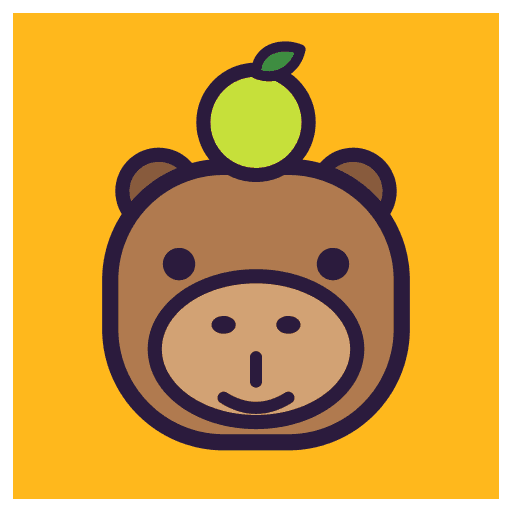
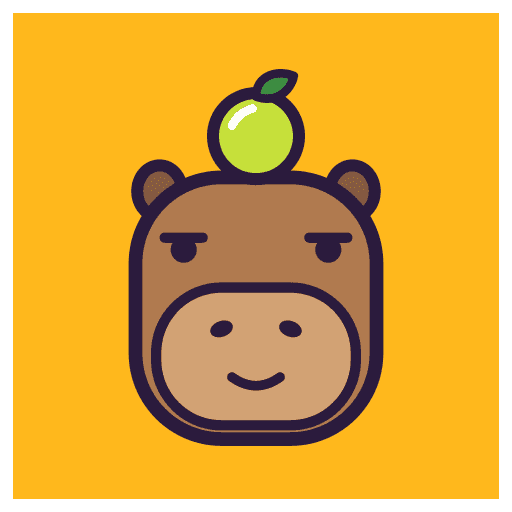
Pulido: Capi definitivo, guía de instalación y borrado de reseñas
Mascota con ánimos en estados vacíos y de error, tarjeta para instalar
la PWA (Android e iPhone), contadores en el perfil y página de error.

Changed region(s): [[0.1875, 0.0625, 0.8125, 0.9062]]

diff --git a/app/pages/lugar/[id].vue b/app/pages/lugar/[id].vue
@@ -67,6 +67,27 @@ function fecha(dia: string) {
 }
 const nombrePlan = (id: string | null) => PLANES.find(p => p.id === id)?.nombre
 
+// --- Borrar mi reseña ---
+const porBorrar = ref<string | null>(null)
+const borrando = ref(false)
+
+async function borrarResena(r: Resena) {
+  if (borrando.value) return
+  borrando.value = true
+  aviso.value = ''
+  // Primero los archivos: al borrar la reseña se pierden las rutas.
+  const rutas = r.fotos.map(f => f.path)
+  if (rutas.length) await supabase.storage.from('fotos').remove(rutas)
+  const { error } = await supabase.from('resenas').delete().eq('id', r.id)
+  borrando.value = false
+  porBorrar.value = null
+  if (error) {
+    aviso.value = 'No se pudo borrar la reseña.'
+    return
+  }
+  await cargar()
+}
+
 // --- Quiero ir ---
 const nombreDe = (id: string | null) => mancha.value.find(x => x.id === id)?.nombre
 const miPendiente = computed(() => pendientes.value.find(x => x.usuario_id === perfil.value?.id))
@@ -118,16 +139,21 @@ async function recomendar(amigoId: string) {
   <main class="mx-auto min-h-full max-w-md px-5 pt-6 pb-28">
     <NuxtLink to="/" class="text-sm font-bold">← Volver al mapa</NuxtLink>
 
-    <p v-if="estado === 'cargando'" class="mt-10 text-center font-display text-xl font-bold">Cargando…</p>
+    <div v-if="estado === 'cargando'" class="mt-10 text-center">
+      <Capi :size="96" animo="dormido" class="mx-auto animate-pulse" />
+      <p class="mt-2 font-display text-xl font-bold">Cargando…</p>
+    </div>
 
     <div v-else-if="estado === 'error'" class="mt-10 text-center">
-      <p class="font-display text-xl font-bold">No se pudo cargar el lugar</p>
+      <Capi :size="96" animo="triste" class="mx-auto" />
+      <p class="mt-2 font-display text-xl font-bold">No se pudo cargar el lugar</p>
       <button class="btn mt-4 bg-limon" @click="cargar">Reintentar</button>
     </div>
 
-    <p v-else-if="estado === 'no-existe'" class="mt-10 text-center font-display text-xl font-bold">
-      Este lugar no existe o no es de tu grupo
-    </p>
+    <div v-else-if="estado === 'no-existe'" class="mt-10 text-center">
+      <Capi :size="96" animo="triste" class="mx-auto" />
+      <p class="mt-2 font-display text-xl font-bold">Este lugar no existe o no es de tu grupo</p>
+    </div>
 
     <template v-else-if="lugar">
       <p v-if="route.query.fotosFallidas" class="sticker mt-4 bg-white px-3 py-2 text-sm font-semibold" role="alert">
@@ -195,7 +221,10 @@ async function recomendar(amigoId: string) {
         <p v-if="aviso" class="mt-2 text-sm font-semibold" role="status">{{ aviso }}</p>
       </section>
 
-      <p v-if="!resenas.length" class="mt-8 text-center">Aún no hay reseñas de este lugar.</p>
+      <div v-if="!resenas.length" class="mt-8 text-center">
+        <Capi :size="80" class="mx-auto" />
+        <p class="mt-2 font-semibold">Nadie lo ha reseñado todavía. Estrénalo.</p>
+      </div>
 
       <article v-for="r in resenas" :key="r.id" class="sticker mt-4 p-4">
         <div class="flex items-center gap-2">
@@ -206,6 +235,15 @@ async function recomendar(amigoId: string) {
             <p class="font-bold">{{ r.autor?.nombre }}</p>
             <p class="text-xs">{{ fecha(r.visitado_en) }}<template v-if="r.plan"> · {{ nombrePlan(r.plan) }}</template></p>
           </div>
+          <template v-if="r.autor_id === perfil?.id">
+            <span v-if="porBorrar === r.id" class="flex items-center gap-2 text-xs font-bold">
+              <button class="underline" @click="porBorrar = null">Cancelar</button>
+              <button class="rounded-full border-2 border-tinta bg-rocoto px-2 py-0.5 text-white" :disabled="borrando" @click="borrarResena(r)">
+                {{ borrando ? 'Borrando…' : 'Sí, borrar' }}
+              </button>
+            </span>
+            <button v-else class="text-xs font-bold underline" @click="porBorrar = r.id">Borrar</button>
+          </template>
         </div>
 
         <div class="mt-3 flex items-center gap-2">

diff --git a/app/pages/perfil.vue b/app/pages/perfil.vue
@@ -3,12 +3,32 @@ import type { Perfil } from '~/utils/tipos'
 
 const supabase = useSupabaseClient()
 const { perfil, salir } = usePerfil()
-const mancha = ref<Pick<Perfil, 'id' | 'nombre' | 'avatar_url'>[]>([])
+
+const mancha = ref<(Pick<Perfil, 'id' | 'nombre' | 'avatar_url'> & { resenas: number })[]>([])
+const pendientes = ref(0)
+const error = ref(false)
 
 onMounted(async () => {
-  const { data } = await supabase.from('perfiles').select('id, nombre, avatar_url').order('nombre')
-  mancha.value = data ?? []
+  const [p, r, q] = await Promise.all([
+    supabase.from('perfiles').select('id, nombre, avatar_url').order('nombre'),
+    supabase.from('resenas').select('autor_id'),
+    supabase.from('pendientes').select('lugar_id', { count: 'exact', head: true }).eq('usuario_id', perfil.value?.id ?? ''),
+  ])
+  if (p.error || r.error || q.error) {
+    error.value = true
+    return
+  }
+  mancha.value = p.data.map(x => ({ ...x, resenas: r.data.filter(y => y.autor_id === x.id).length }))
+  pendientes.value = q.count ?? 0
 })
+
+const misResenas = computed(() => mancha.value.find(x => x.id === perfil.value?.id)?.resenas ?? 0)
+const { filtros } = useFiltros()
+
+function verPendientes() {
+  filtros.value.soloPendientes = true
+  navigateTo('/')
+}
 </script>
 
 <template>
@@ -16,15 +36,29 @@ onMounted(async () => {
     <NuxtLink to="/" class="text-sm font-bold">← Volver al mapa</NuxtLink>
 
     <header class="mt-5 flex items-center gap-3">
-      <Capi :size="56" />
+      <Capi :size="64" animo="feliz" />
       <div>
         <p class="text-sm font-semibold">Hola,</p>
         <h1 class="font-display text-3xl leading-none font-extrabold">{{ perfil?.nombre }}</h1>
       </div>
     </header>
 
-    <section class="sticker mt-8 p-4">
+    <div class="mt-6 grid grid-cols-2 gap-3">
+      <div class="sticker bg-limon p-3">
+        <p class="font-display text-3xl leading-none font-extrabold">{{ misResenas }}</p>
+        <p class="mt-1 text-sm font-semibold">{{ misResenas === 1 ? 'reseña tuya' : 'reseñas tuyas' }}</p>
+      </div>
+      <button class="sticker bg-aji p-3 text-left disabled:opacity-100" :disabled="!pendientes" @click="verPendientes">
+        <p class="font-display text-3xl leading-none font-extrabold">{{ pendientes }}</p>
+        <p class="mt-1 text-sm font-semibold">🔖 en "Quiero ir"<template v-if="pendientes"> · Ver</template></p>
+      </button>
+    </div>
+
+    <InstalarApp class="mt-5" />
+
+    <section class="sticker mt-5 p-4">
       <h2 class="font-display text-lg font-bold">La mancha</h2>
+      <p v-if="error" class="mt-2 text-sm font-semibold" role="alert">No se pudo cargar la lista.</p>
       <ul class="mt-3 space-y-3">
         <li v-for="p in mancha" :key="p.id" class="flex items-center gap-3">
           <img
@@ -37,8 +71,8 @@ onMounted(async () => {
           <span v-else class="grid size-9 place-items-center rounded-full border-2 border-tinta bg-aji font-bold">
             {{ p.nombre.charAt(0).toUpperCase() }}
           </span>
-          <span class="font-semibold">{{ p.nombre }}</span>
-          <span v-if="p.id === perfil?.id" class="text-sm">(tú)</span>
+          <span class="font-semibold">{{ p.nombre }}<template v-if="p.id === perfil?.id"> (tú)</template></span>
+          <span class="ml-auto text-sm">{{ p.resenas }} {{ p.resenas === 1 ? 'reseña' : 'reseñas' }}</span>
         </li>
       </ul>
     </section>

diff --git a/app/components/Capi.vue b/app/components/Capi.vue
@@ -1,24 +1,45 @@
 <script setup lang="ts">
-// Mascota provisional: capibara con un limón en la cabeza.
-withDefaults(defineProps<{ size?: number }>(), { size: 120 })
+// Capi: capibara con un limón en la cabeza. El ánimo cambia ojos y boca.
+withDefaults(defineProps<{
+  size?: number
+  animo?: 'normal' | 'feliz' | 'dormido' | 'triste'
+}>(), { size: 120, animo: 'normal' })
 </script>
 
 <template>
   <svg :width="size" :height="size" viewBox="0 0 120 120" role="img" aria-label="Capi, la mascota de Caleta">
     <g stroke="#2B1B3D" stroke-linejoin="round" stroke-linecap="round">
-      <circle cx="36" cy="44" r="9" fill="#8A5A3C" stroke-width="3.5" />
-      <circle cx="84" cy="44" r="9" fill="#8A5A3C" stroke-width="3.5" />
-      <rect x="24" y="38" width="72" height="68" rx="28" fill="#B07A4F" stroke-width="4" />
-      <ellipse cx="60" cy="83" rx="25" ry="18" fill="#D2A274" stroke-width="3.5" />
-      <path d="M60 85v6M52 95q8 5 16 0" fill="none" stroke-width="3" />
-      <circle cx="60" cy="27" r="13" fill="#C6E03A" stroke-width="3.5" />
-      <path d="M60 15c0-6 6-8 11-6-1 5-6 8-11 6Z" fill="#3E8E41" stroke-width="2.5" />
+      <!-- orejas -->
+      <ellipse cx="32" cy="40" rx="6.5" ry="7.5" fill="#8A5A3C" stroke-width="3.5" />
+      <ellipse cx="88" cy="40" rx="6.5" ry="7.5" fill="#8A5A3C" stroke-width="3.5" />
+      <!-- cabeza cuadrada y hocico ancho, como buen capibara -->
+      <rect x="25" y="36" width="70" height="76" rx="25" fill="#B07A4F" stroke-width="4" />
+      <rect x="31" y="68" width="58" height="40" rx="19" fill="#D2A274" stroke-width="3" />
+      <ellipse cx="50" cy="80" rx="3.4" ry="2.3" fill="#2B1B3D" stroke="none" transform="rotate(-20 50 80)" />
+      <ellipse cx="70" cy="80" rx="3.4" ry="2.3" fill="#2B1B3D" stroke="none" transform="rotate(20 70 80)" />
+      <path :d="animo === 'triste' ? 'M53 97q7-5 14 0' : animo === 'feliz' ? 'M51 93q9 9 18 0' : 'M53 94q7 5 14 0'" fill="none" stroke-width="2.8" />
+      <!-- limón -->
+      <circle cx="60" cy="24" r="12.5" fill="#C6E03A" stroke-width="3.5" />
+      <path d="M60 12.5c0-6 6-8 11-6-1 5-6 8-11 6z" fill="#3E8E41" stroke-width="2.5" />
+      <path d="M53 21q2-4 6-5" fill="none" stroke="#fff" stroke-width="2.5" />
+
+      <!-- ojos: de párpado caído salvo cuando está feliz o dormido -->
+      <g v-if="animo === 'feliz'" fill="none" stroke-width="3.5">
+        <path d="M34 58q5-6 10 0M76 58q5-6 10 0" />
+      </g>
+      <g v-else-if="animo === 'dormido'" fill="none" stroke-width="3.5">
+        <path d="M34 56q5 4 10 0M76 56q5 4 10 0" />
+      </g>
+      <g v-else>
+        <circle cx="39" cy="57" r="3.8" fill="#2B1B3D" stroke="none" />
+        <circle cx="81" cy="57" r="3.8" fill="#2B1B3D" stroke="none" />
+        <path v-if="animo === 'triste'" d="M33 50l10 3M87 50l-10 3" fill="none" stroke-width="3" />
+        <path v-else d="M33.500 53.500h11M75.500 53.500h11" fill="none" stroke-width="3" />
+      </g>
     </g>
-    <g fill="#2B1B3D">
-      <ellipse cx="52" cy="77" rx="3" ry="2.2" />
-      <ellipse cx="68" cy="77" rx="3" ry="2.2" />
-      <circle cx="41" cy="62" r="4" />
-      <circle cx="79" cy="62" r="4" />
+    <g v-if="animo === 'feliz'" fill="#F0492E" opacity=".45">
+      <circle cx="31" cy="68" r="4.500" />
+      <circle cx="89" cy="68" r="4.500" />
     </g>
   </svg>
 </template>

diff --git a/app/components/InstalarApp.vue b/app/components/InstalarApp.vue
@@ -1,0 +1,79 @@
+<script setup lang="ts">
+// Invita a instalar la PWA. En Android/Chrome usa el aviso nativo;
+// en iPhone no existe, así que se explican los pasos de Safari.
+const CLAVE = 'caleta:instalar-oculto'
+
+const instalada = ref(true)
+const oculto = ref(false)
+const esIOS = ref(false)
+const enSafari = ref(true)
+const pasosAbiertos = ref(false)
+let aviso: any
+
+function alAviso(e: Event) {
+  e.preventDefault()
+  aviso = e
+  disponible.value = true
+}
+const disponible = ref(false)
+
+onMounted(() => {
+  const ua = navigator.userAgent
+  // iPadOS se presenta como Mac; se distingue por la pantalla táctil.
+  esIOS.value = /iPhone|iPad|iPod/.test(ua) || (ua.includes('Macintosh') && navigator.maxTouchPoints > 1)
+  enSafari.value = !/CriOS|FxiOS|EdgiOS/.test(ua)
+  instalada.value = window.matchMedia('(display-mode: standalone)').matches || (navigator as any).standalone === true
+  try {
+    oculto.value = localStorage.getItem(CLAVE) === '1'
+  }
+  catch {}
+  window.addEventListener('beforeinstallprompt', alAviso)
+  window.addEventListener('appinstalled', () => (instalada.value = true))
+})
+
+onBeforeUnmount(() => window.removeEventListener('beforeinstallprompt', alAviso))
+
+async function instalar() {
+  if (!aviso) return
+  aviso.prompt()
+  await aviso.userChoice
+  aviso = undefined
+  disponible.value = false
+}
+
+function ocultar() {
+  oculto.value = true
+  try {
+    localStorage.setItem(CLAVE, '1')
+  }
+  catch {}
+}
+
+const visible = computed(() => !instalada.value && !oculto.value && (esIOS.value || disponible.value))
+</script>
+
+<template>
+  <section v-if="visible" class="sticker bg-limon p-4">
+    <div class="flex items-start gap-3">
+      <Capi :size="48" animo="feliz" class="shrink-0" />
+      <div class="min-w-0 flex-1">
+        <h2 class="font-display text-lg leading-tight font-bold">Lleva Caleta en tu inicio</h2>
+        <p class="text-sm">Se abre como una app, a pantalla completa.</p>
+      </div>
+      <button class="text-sm font-bold underline" @click="ocultar">Ahora no</button>
+    </div>
+
+    <template v-if="esIOS">
+      <button class="btn mt-3 w-full bg-white py-2 text-sm" :aria-expanded="pasosAbiertos" @click="pasosAbiertos = !pasosAbiertos">
+        {{ pasosAbiertos ? 'Ocultar pasos' : 'Ver cómo instalarla' }}
+      </button>
+      <ol v-if="pasosAbiertos" class="mt-3 list-decimal space-y-1 pl-5 text-sm font-semibold">
+        <li v-if="!enSafari">Abre esta página en Safari; desde otro navegador no se puede.</li>
+        <li>Toca el botón Compartir, el cuadrado con la flecha hacia arriba.</li>
+        <li>Elige "Agregar a inicio".</li>
+        <li>Confirma con "Agregar".</li>
+      </ol>
+    </template>
+    <button v-else class="btn mt-3 w-full bg-tinta py-2 text-sm text-white" @click="instalar">Instalar</button>
+  </section>
+</template>

diff --git a/app/pages/index.vue b/app/pages/index.vue
@@ -199,6 +199,7 @@ const ORDENES: { id: Orden, nombre: string }[] = [
         </NuxtLink>
 
         <div v-else-if="!lugares.length && !error" class="sticker pointer-events-auto bg-white p-4 text-center">
+          <Capi :size="64" animo="feliz" class="mx-auto" />
           <p class="font-display text-lg font-bold">El mapa está vacío</p>
           <p class="text-sm">Reseña el primer lugar y aparecerá aquí para toda la mancha.</p>
         </div>
@@ -229,7 +230,7 @@ const ORDENES: { id: Orden, nombre: string }[] = [
       <p class="mt-3 text-sm font-bold">{{ visibles.length }} {{ visibles.length === 1 ? 'lugar' : 'lugares' }}</p>
 
       <div v-if="!visibles.length && !error" class="mt-8 text-center">
-        <Capi :size="96" class="mx-auto" />
+        <Capi :size="96" :animo="lugares.length ? 'triste' : 'feliz'" class="mx-auto" />
         <p class="mt-2 font-display text-xl font-bold">
           {{ lugares.length ? 'Nada con esos filtros' : 'Aún no hay lugares' }}
         </p>

diff --git a/app/error.vue b/app/error.vue
@@ -1,0 +1,19 @@
+<script setup lang="ts">
+import type { NuxtError } from '#app'
+
+const props = defineProps<{ error: NuxtError }>()
+const noExiste = computed(() => props.error.statusCode === 404)
+</script>
+
+<template>
+  <main class="mx-auto flex min-h-full max-w-md flex-col items-center justify-center px-6 text-center">
+    <Capi :size="130" animo="triste" />
+    <h1 class="mt-3 font-display text-3xl font-extrabold">
+      {{ noExiste ? 'Aquí no hay nada' : 'Algo se rompió' }}
+    </h1>
+    <p class="mt-2">
+      {{ noExiste ? 'Esta página no existe. Ni Capi la encontró.' : 'Vuelve al mapa e intenta de nuevo.' }}
+    </p>
+    <button class="btn mt-6 bg-limon" @click="clearError({ redirect: '/' })">Volver al mapa</button>
+  </main>
+</template>

diff --git a/app/pages/nueva.vue b/app/pages/nueva.vue
@@ -375,7 +375,9 @@ async function guardar() {
         </template>
 
         <MapaPicker :key="existente?.id ?? 'nuevo'" v-model="posicion" :bloqueado="!!existente" class="min-h-56 flex-1" />
-        <p v-if="!existente" class="text-center text-sm font-semibold">Mueve el mapa hasta dejar el pin sobre el lugar.</p>
+        <p v-if="!existente" class="text-center text-sm font-semibold">
+          {{ posicion ? 'Ajusta el mapa si el pin no quedó sobre el lugar.' : 'Busca el local o mueve el mapa para fijar la ubicación.' }}
+        </p>
       </section>
 
       <!-- Paso 2: categoría y precio -->

diff --git a/app/pages/login.vue b/app/pages/login.vue
@@ -40,7 +40,7 @@ async function entrarDemo(u: (typeof USUARIOS_DEMO)[number]) {
 <template>
   <main class="flex min-h-full flex-col items-center justify-between gap-8 bg-limon px-6 pt-14 pb-10">
     <div class="flex flex-col items-center text-center">
-      <Capi :size="150" />
+      <Capi :size="150" animo="feliz" />
       <h1 class="mt-3 font-display text-6xl font-extrabold tracking-tight">Caleta</h1>
       <p class="mt-3 max-w-64 text-lg leading-snug font-semibold">
         Los datos de la mancha, en un solo mapa.
